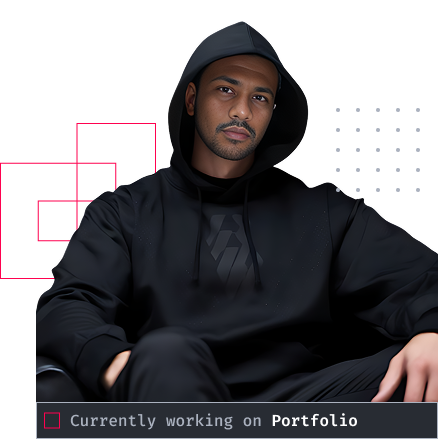
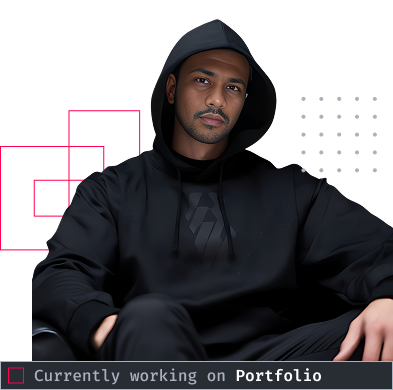
Media Query done( Mobile Large (425px) )

diff --git a/Css/Style.css b/Css/Style.css
@@ -176,6 +176,7 @@
   position: absolute;
   right: 0px;
   padding: 5px 10px;
+  font-family: "Fira Code", sans-serif;
 }
 
 #project-tagline span {
@@ -442,4 +443,123 @@ hr{
 }
 .social-icons a i{
  color: #abb2bf;
+}
+
+
+/* Mobile Large (425px) */
+@media (max-width: 425px) {
+  body{
+    overflow-x: hidden;
+  }
+  .navBar{
+    padding-left: 60px;
+
+  }
+  .list{
+    display: none;
+  }
+  #project-tagline{
+    padding-left: 0%;
+    font-size: 24px;
+  }
+  .heroSection{
+    flex-direction: column;
+    justify-content: flex-start;
+    align-items: start;
+  }
+  .heroSection .description{
+    width: 322px;
+    font-size: 15px;
+  }
+  .name{
+    font-size: 24px;
+    width: 234px;
+  }
+  .greeting{
+    font-size: 24px;
+  }
+  .left{
+    margin-left: 50px;
+  }
+  .right{
+    width: 393px;
+    height: 390px;
+    margin: 0;
+    justify-content: flex-start;
+  }
+  .quotebox{
+    width: 400px;
+    height: 105px;
+  }
+  #overAllContainer{
+    flex-direction: column;
+    justify-content: center;
+    align-items: center;
+  }
+  .skillSection{
+    flex-direction: column;
+    gap: 15px;
+  }
+  .skillTables{
+    grid-template-columns: repeat(2, auto);
+  }
+  .AboutMeSection{
+    flex-direction: column-reverse;
+    justify-content:flex-start;
+    align-items: flex-start;
+  }
+  .AboutMeDes  {
+    font-size:  14px;
+    font-weight: 200;
+    width: 325px;
+   margin-left: 15px;
+  }
+  .AboutMeDes p{
+    width: 340px;
+  }
+ 
+  .AboutMeImg{
+    margin: auto;
+  }
+  .ContactsSection{
+    flex-direction: column;
+    justify-content:flex-start;
+    align-items: center;
+    
+  }
+  .ContactsSection .ContactsDes{
+    width: 380px;
+    
+  }
+  .ContactsSection .ContactsDes p{
+    width: 340px;
+    
+  }
+  .contactbox{
+    width: 312px;
+  }
+  .footerSection{
+    flex-direction: column;
+    align-items: flex-start;
+    gap: 10px;
+    
+  }
+  .footer-left {
+    height: 159px;
+    max-width: 100%;
+   
+  }
+  .footer-left p{
+   column-gap: 10px;
+   
+  }
+  .footer-left p .email{
+   padding-top: 10px;
+   background: transparent;
+  }
+  .footer-left #footerDes{
+    margin-top: 20px;
+  }
+  
+  
 }
